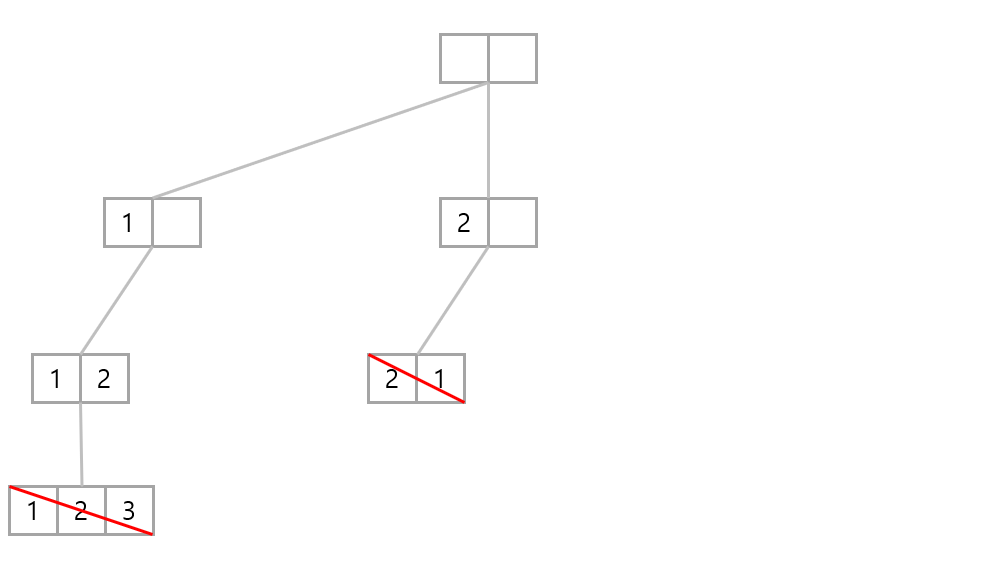
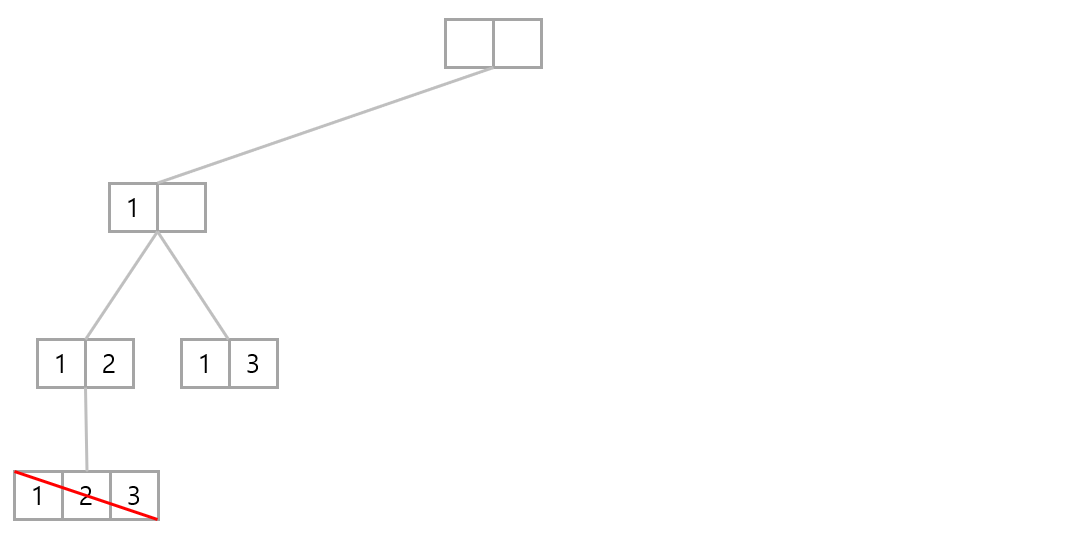
docs: 백준 치킨배달 이미지 및 설명 보충

diff --git a/_posts/baekjoon/2022-04-27-No15686-chicken-delivery.md b/_posts/baekjoon/2022-04-27-No15686-chicken-delivery.md
@@ -93,13 +93,13 @@ for (int i = index; i < chickenList.size(); i++) {
 
 `2. i 가 1일 경우` 
 
-- i가 1일 경우 다시 재귀함수 타면 아래와 같이 된다. 
+- i가 1일 경우 다시 재귀함수 타면 아래와 같이 된다. 배열 {2, 1}의 경우 기존의 탐색한 배열 {1, 2}와 중복되므로, 탐색하지 않는다. 
 
 ![치킨배달5]({{site.url}}/assets/image/2022-04-27/chicken5.PNG)
 
 `3. i 가 2일 경우`
 
-- i가 2일 경우 다시 재귀함수 타면 아래와 같이 된다.
+- i가 2일 경우 다시 재귀함수 타면 아래와 같이 된다. 배열 {3, 1}, {3, 2}의 경우 기존의 배열 {1, 3}, {2, 3}와 중복되므로 탐색하지 않는다.
 
 ![치킨배달6]({{site.url}}/assets/image/2022-04-27/chicken6.PNG)
 
